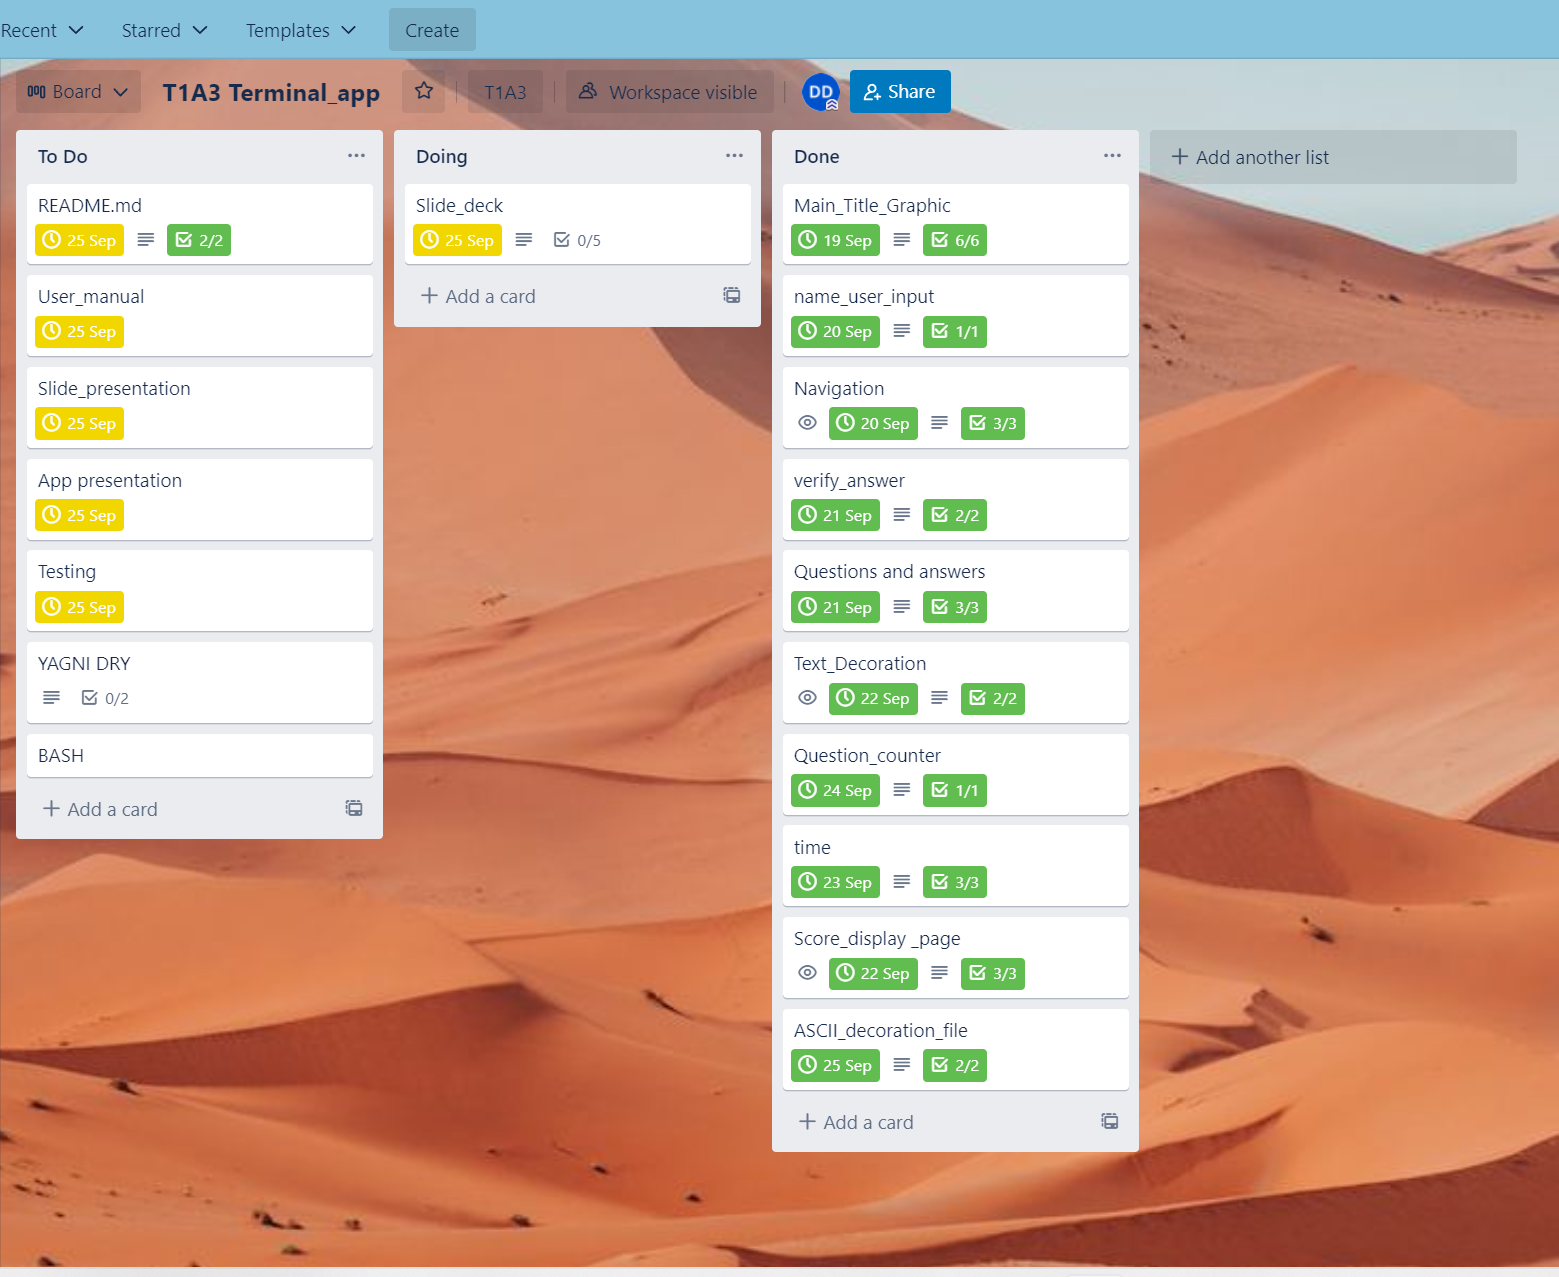
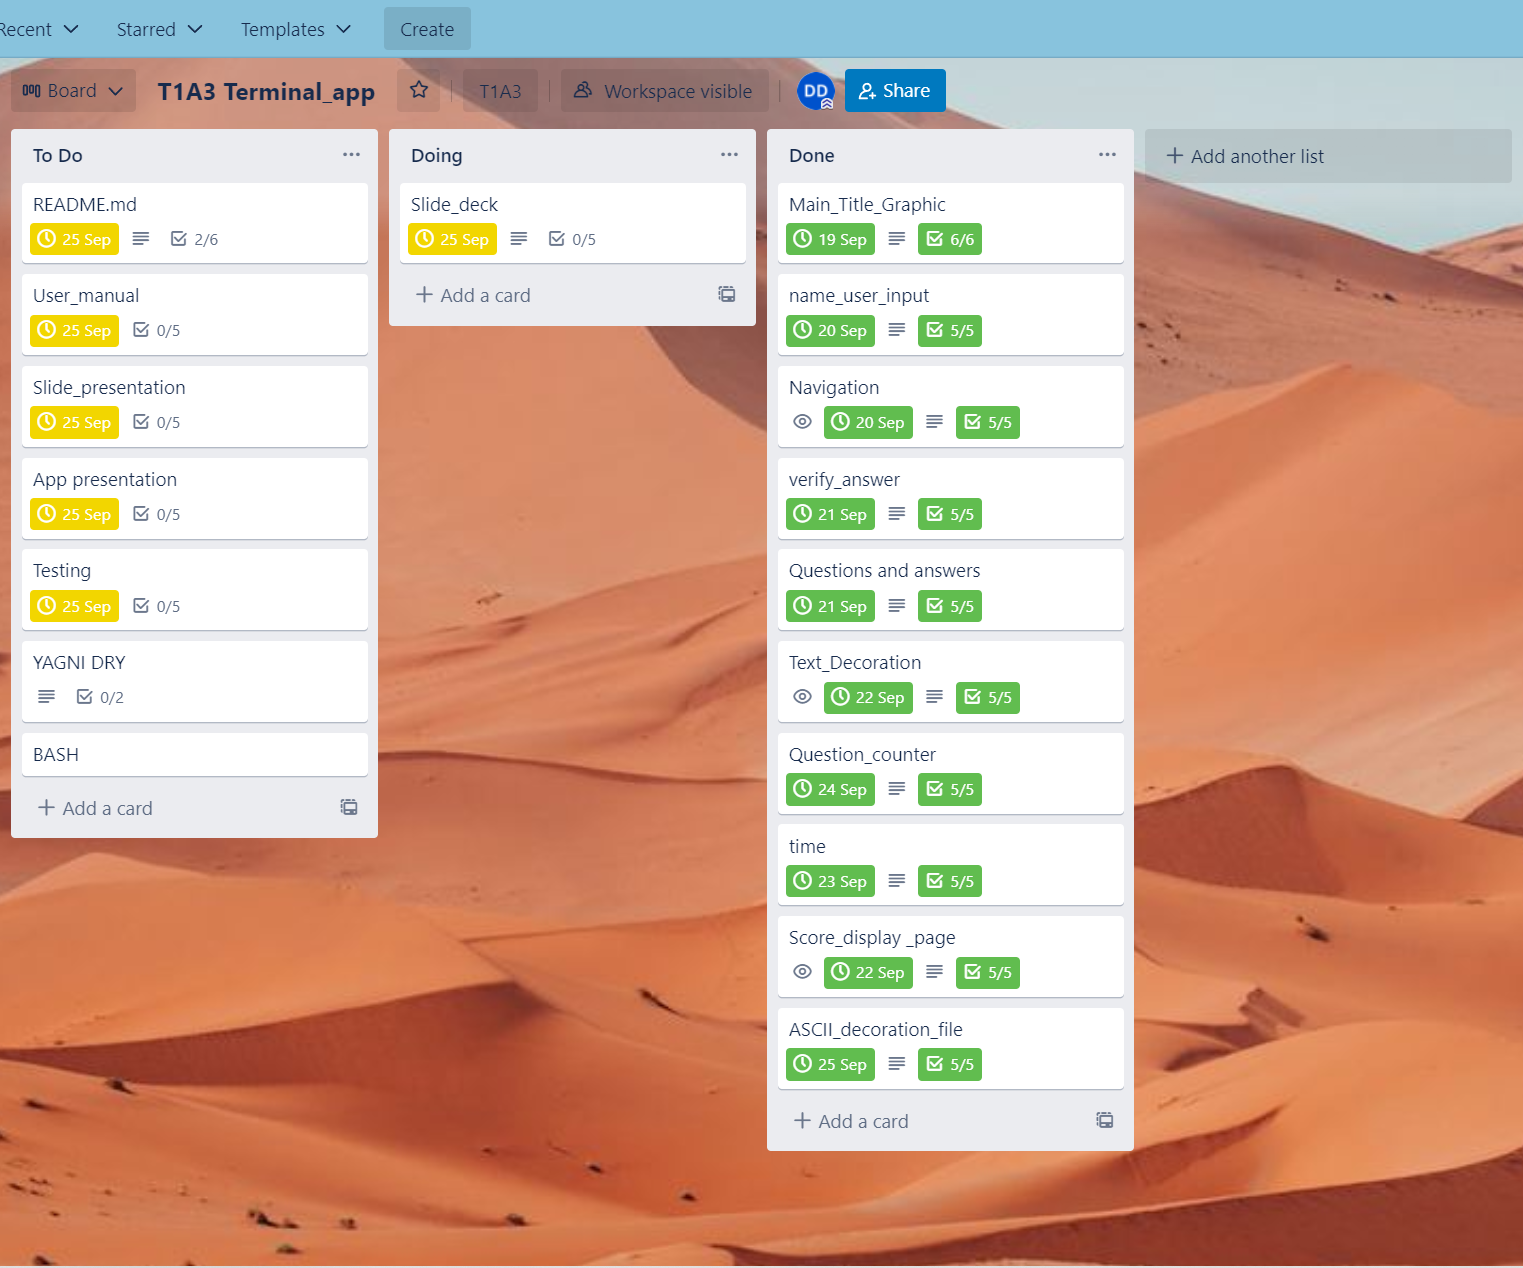
most of readme complete

diff --git a/README.md b/README.md
@@ -45,4 +45,16 @@ Grey matter is designed for quick enjoyment in an ever busy world. The player is
   If the player chooses to exit, A farewell message and a readout is provided of the time remaining until next game(next day).  
     __________________________________  
 ## Trello Implementation Plan 
-![Trello Implementation Plan](./docs/trello-main-ss.png)
+![Trello Implementation Plan](./docs/trello-main-ss.png)  
+___________________________________  
+## App Shots    
+### Main Screen
+![Main Screen](docs/grey-matter-ss.png)   
+## User Input Screen
+![Enter Name Screen](docs/enter-name-ss.png)  
+## Quiz   
+![Enter Name Screen](docs/q1-ss.png)  
+## Score Review   
+![Enter Name Screen](docs/score-ss.png)  
+## Final Screen   
+![Enter Name Screen](docs/final-page-ss.png)   
